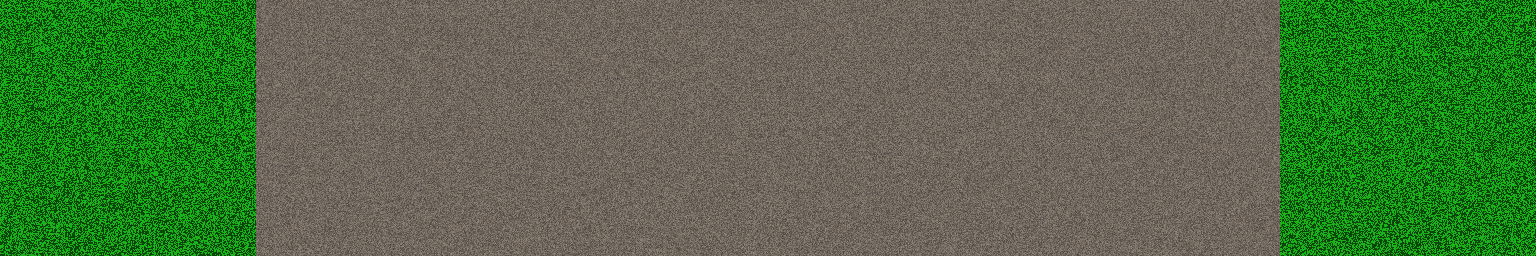
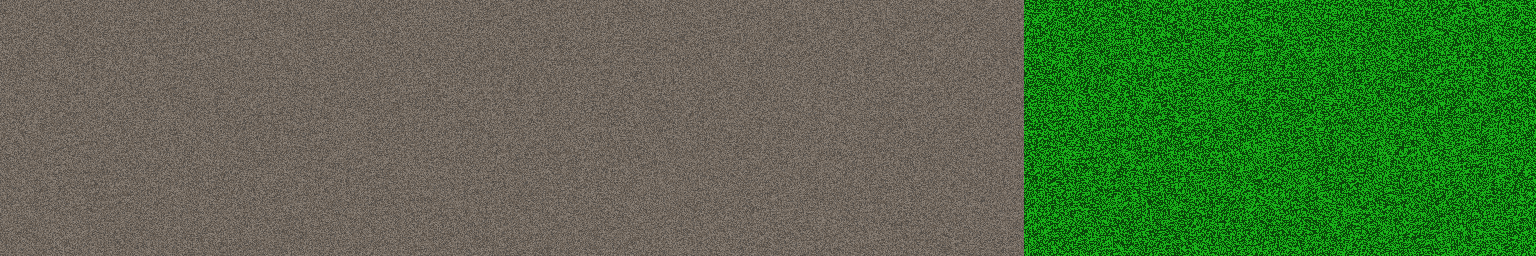
fix rock

diff --git a/maketexture.py b/maketexture.py
@@ -44,8 +44,7 @@ for resolution in resolutions:
                 # Determine which face this pixel belongs to (0-5)
                 face = x // face_width
                 
-                # Faces 1,2,3,4 (index 1,2,3,4) should be rock texture
-                if 1 <= face <= 4:
+                if face < 4:
                     # For rock textures, use rock colors
                     pixels[x, y] = random.choice(ROCK_COLORS)
                     
